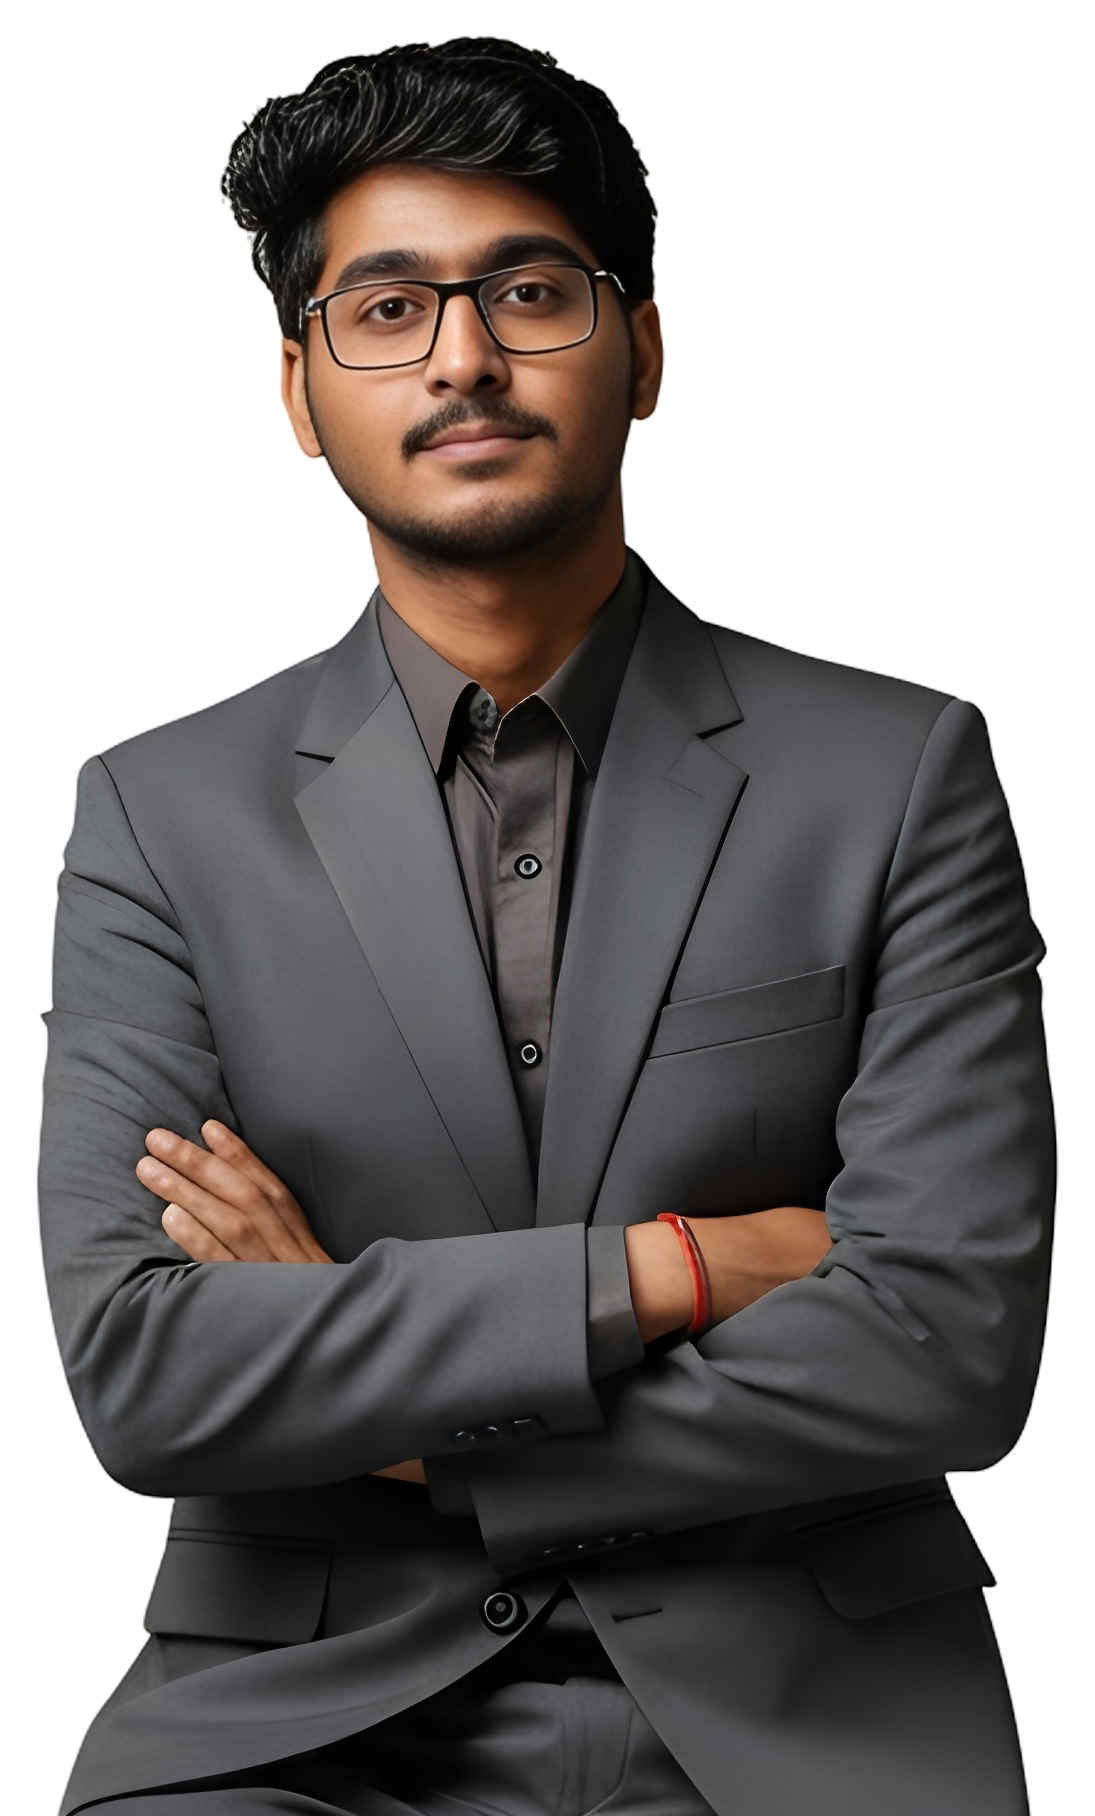
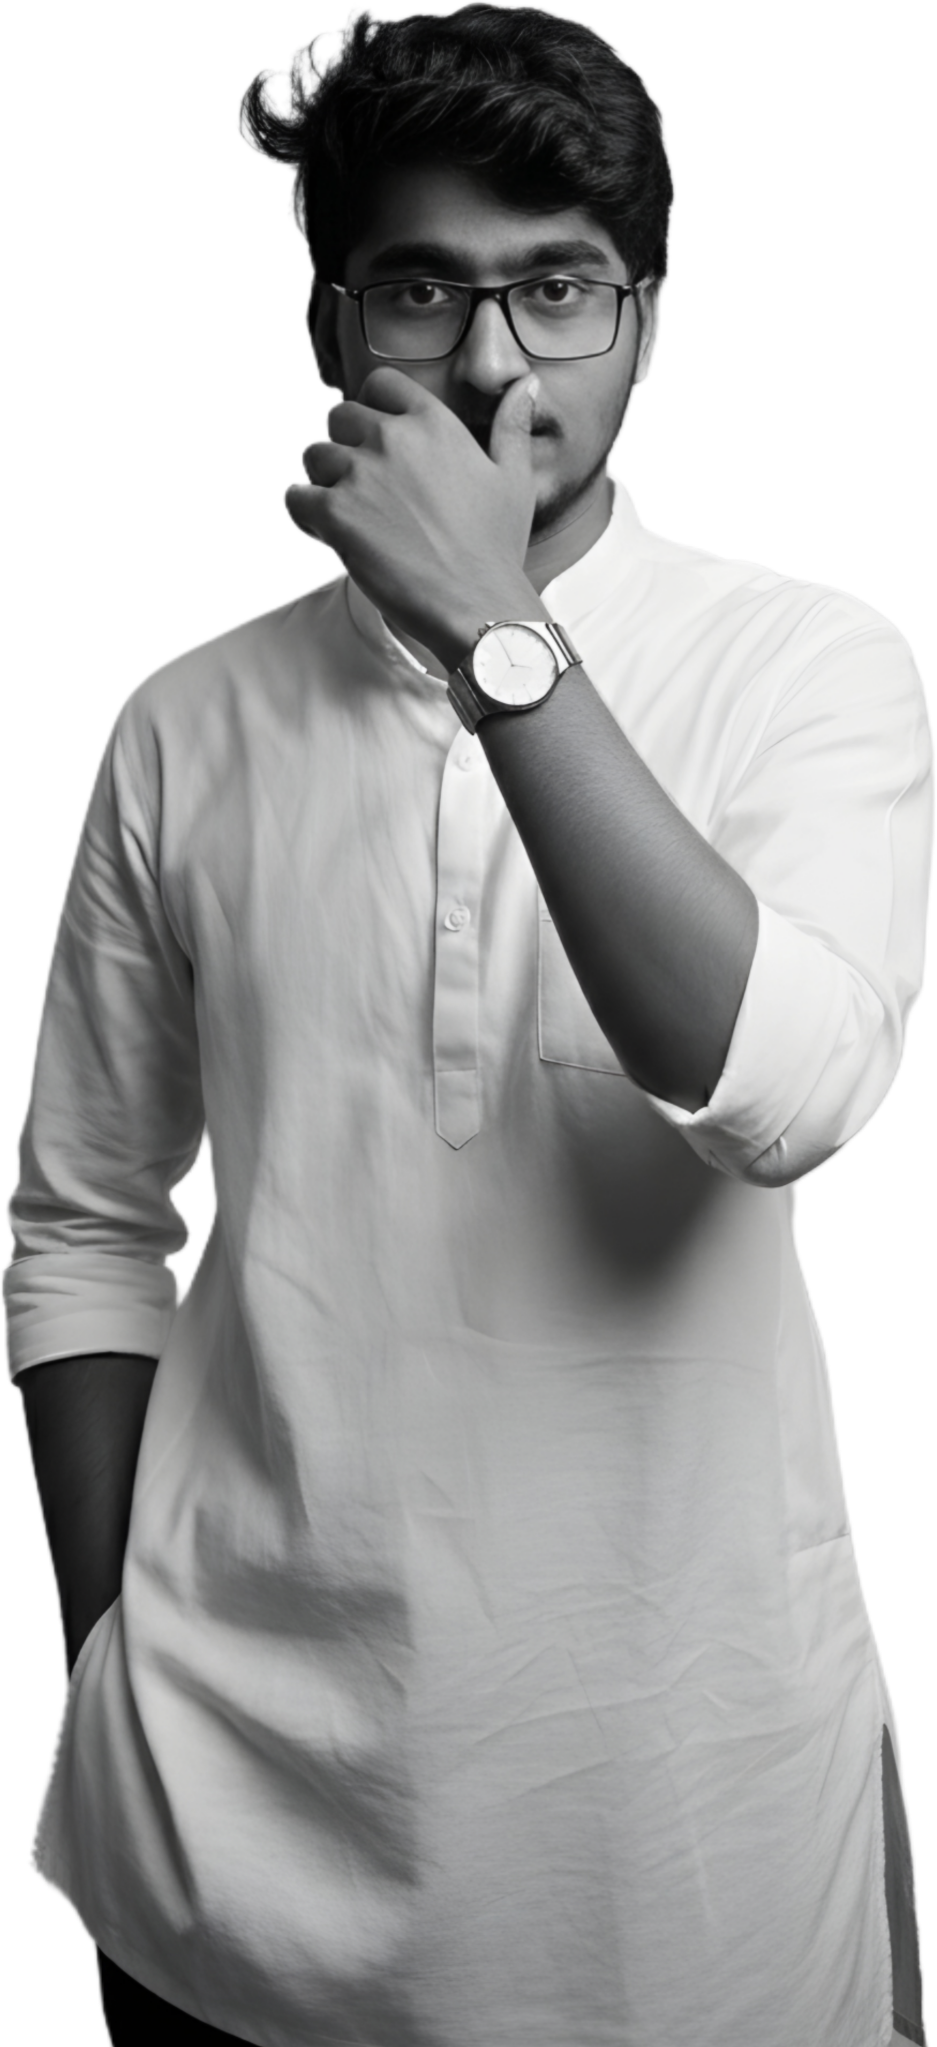
Update portfolio with correct files

diff --git a/index.html b/index.html
@@ -72,7 +72,7 @@
    <div class="right-image-wrap"> <div class="arrow">➜</div> <div class="portrait-box"> <div class="texture"></div> <img src="Picsart_25-11-08_11-15-57-876.png" alt="portrait" class="portrait"> </div> </div> </div> </section> </main> <!-- ADDED: About section (v5.1 fix 17) -->
 <section id="about" class="fade-section about-extended" > <div class="about-block" id="introduction">
    <div class="about-inner"> <div class="about-left"> <div class="about-header"> <div class="kicker">ABOUT</div> <h2 class="about-title on-photo">HELLO! I'M YASHWANTH</h2>
-</div> <div class="about-photo-wrap"> <img src="about_image_2copy.jpg" alt="about photo" class="about-photo"> <!-- decorative rounded corners --> <div class="about-deco top-left"></div> <div class="about-deco bottom-right"></div> </div> </div> <div class="about-right"> <div class="kicker">ABOUT</div> <div class="about-block"> <h3 class="block-title"><span class="star-deco">✶</span> Introduction</h3> <p class="about-text"> My journey as a graphic designer has been a lifelong pursuit of turning imagination into visuals — crafting meaning from colors, shapes, and ideas. I strive to transform ordinary concepts into extraordinary designs that speak, move, and inspire. Through every layout, logo, and composition, I weave stories of creativity, passion, and purpose. Join me on this visual odyssey, where each design tells a story, and every creation is a reflection of my heart and vision. </p> </div> <div class="about-block contact-block"> <h3 class="block-title"><span class="star-deco">✶</span> Contact Information</h3> <div class="contact-grid"> <div> <div class="contact-label">Email</div> <div class="contact-value">yashwanth4302@gmail.com</div> </div> <div> <div class="contact-label">Phone Number</div> <div class="contact-value">+91 9642184091</div> </div> </div> <div class="social-row">
+</div> <div class="about-photo-wrap"> <img src="about_image_2copy.jpg" alt="about photo" class="about-photo"> <!-- decorative rounded corners --> <div class="about-deco top-left"></div> <div class="about-deco bottom-right"></div> </div> </div> <div class="about-right"> <div class="kicker">ABOUT</div> <div class="about-block"> <h3 class="block-title"><span class="star-deco">✶</span> Introduction</h3> <p class="about-text"> My journey as a graphic designer has been a lifelong pursuit of turning imagination into visuals — crafting meaning from colors, shapes, and ideas. I strive to transform ordinary concepts into extraordinary designs that speak, move, and inspire. Through every layout, logo, and composition, I weave stories of creativity, passion, and purpose. Join me on this visual odyssey, where each design tells a story, and every creation is a reflection of my heart and vision. </p> </div> <div class="about-block contact-block"> <h3 class="block-title"><span class="star-deco">✶</span> Contact Information</h3> <div class="contact-grid"> <div> <div class="contact-label">Email</div> <div class="contact-value">yashwanth4302@gmail.com</div> </div> <div> <div class="contact-label">Phone Number</div> <div class="contact-value">+91 6300303713</div> </div> </div> <div class="social-row">
 
   <!-- Instagram -->
   <a class="social-btn icon-btn" href="https://www.instagram.com/n_kaizoku_43/" target="_blank" aria-label="instagram">
@@ -84,7 +84,7 @@
   </a>
 
   <!-- WhatsApp -->
-  <a class="social-btn icon-btn" href="https://wa.me/919642186091" target="_blank" aria-label="whatsapp">
+  <a class="social-btn icon-btn" href="https://wa.me/916300303713" target="_blank" aria-label="whatsapp">
       <svg width="20" height="20" viewBox="0 0 32 32" fill="white">
           <path d="M16 3C9.383 3 4 8.383 4 15c0 2.46.764 4.867 2.105 6.885L4 29l7.403-2.078C13.02 27.61 14.49 28 16 28c6.617 0 12-5.383 12-12S22.617 3 16 3zm6.293 17.707c-.268.748-1.567 1.434-2.207 1.526-.586.084-1.33.118-2.152-.133-.498-.155-1.137-.368-1.96-.718-3.447-1.489-5.687-4.943-5.858-5.18-.172-.237-1.399-1.866-1.399-3.56 0-1.693.886-2.525 1.199-2.872.313-.347.681-.434.908-.434.227 0 .454.002.652.012.21.01.49-.079.768.587.268.645.908 2.237.989 2.396.081.158.135.34.025.547-.109.207-.164.34-.323.522-.158.183-.334.41-.475.55-.158.158-.321.33-.138.647.184.316.82 1.353 1.763 2.192 1.213 1.093 2.234 1.431 2.55 1.59.316.158.498.133.681-.079.184-.211.786-.92.997-1.237.21-.316.419-.263.697-.158.278.105 1.756.829 2.059.979.303.151.505.221.579.345.073.125.073.748-.195 1.496z"/>
       </svg>
@@ -98,7 +98,7 @@
   </a>
 
 </div>
-<div class="cta-row"> <a href="mailto:yashwanth4302@gmail.com" class="btn-primary">Let's Work</a> <a href="tel:+919642184091" class="btn-outline">Contact Me</a>
+<div class="cta-row"> <a href="mailto:yashwanth4302@gmail.com" class="btn-primary">Let's Work</a> <a href="tel:+916300303713" class="btn-outline">Contact Me</a>
 </div> </div> </div> </div>
 </section></section></section>
 
